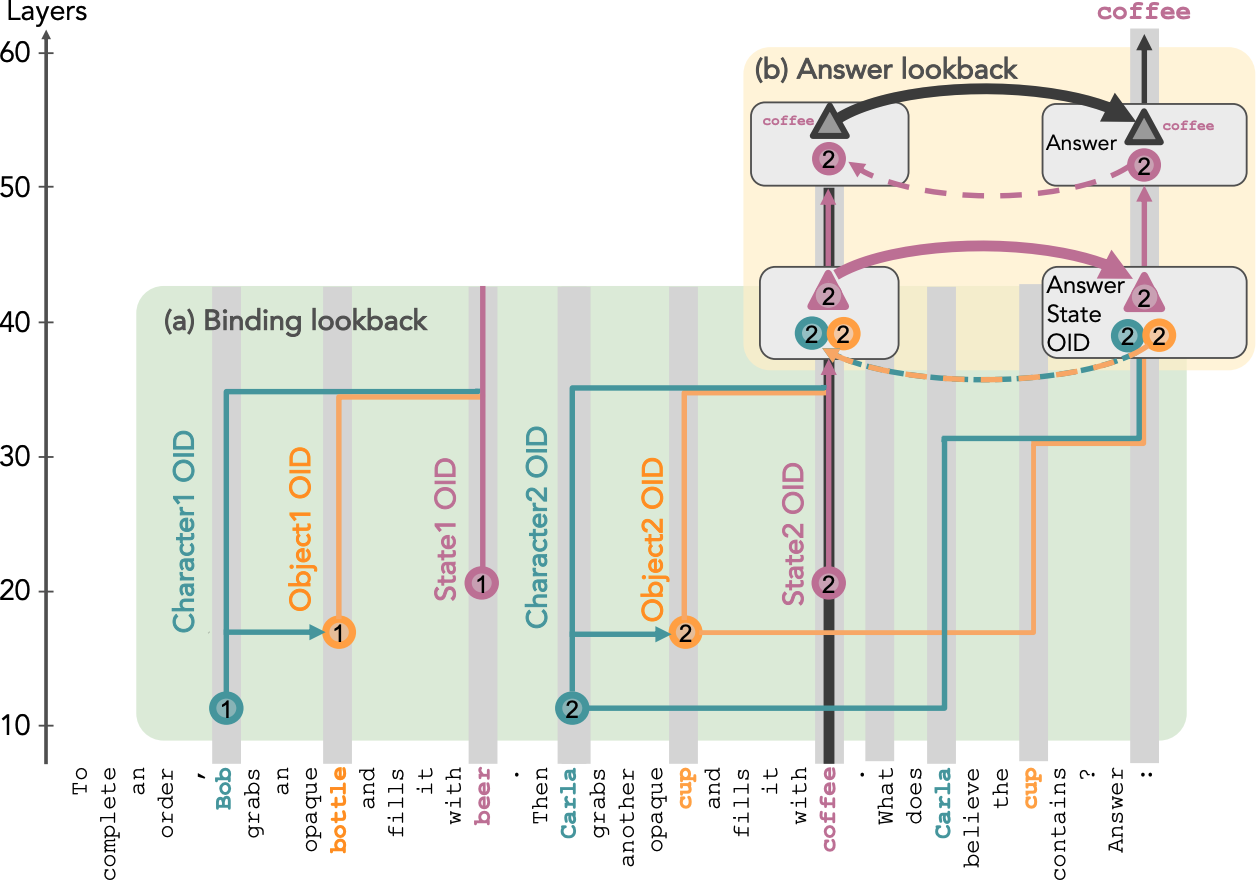
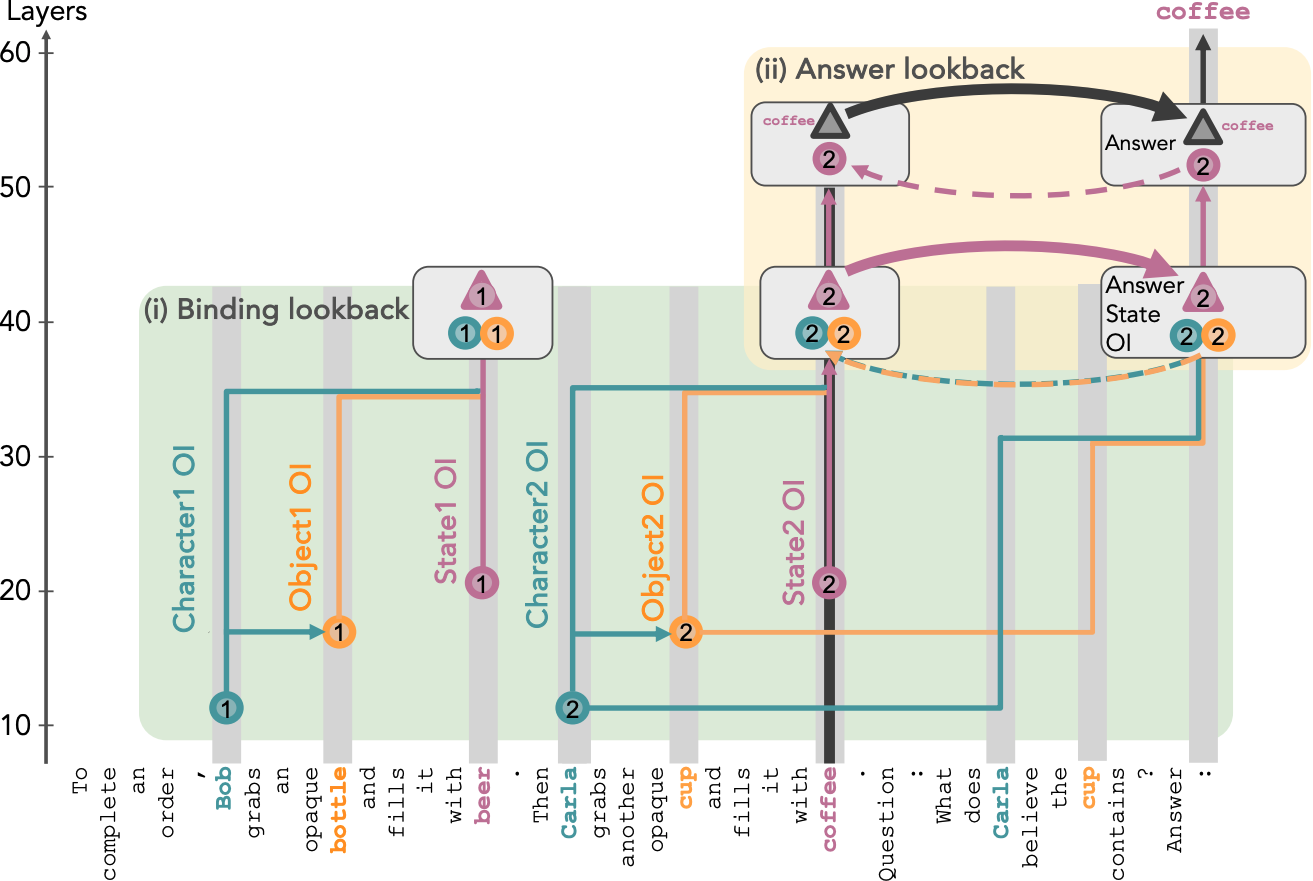
Updated artifacts

Changed region(s): [[0.0, 0.0, 1.0, 1.0], [0.9928, 0.3068, 1.0, 0.3989], [0.8067, 0.092, 0.8377, 0.1227]]

diff --git a/src/index.html b/src/index.html
@@ -100,10 +100,22 @@
     <div class="row justify-content-center text-center">
 
       <p>
-        <a href="pdf/Language_Models_use_Lookbacks_to_Track_Beliefs.pdf" class="d-inline-block p-3 align-top"
+        <a href="https://arxiv.org/abs/2505.14685" class="d-inline-block p-3 align-top"
           target="_blank"><img height="100" width="78" src="images/paper-thumb.png"
-            style="border:1px solid; margin: 0 38px;" alt="ArXiv Preprint thumbnail" data-nothumb=""><br>Under
-          Review</a>
+            style="border:1px solid; margin: 0 38px;" alt="ArXiv Preprint thumbnail" data-nothumb=""><br>ArXiv<br>
+          Preprint
+        </a>
+
+        <a href="https://github.com/Nix07/mind" class="d-inline-block p-3 align-top" target="_blank"><img
+          height="100" width="78" src="images/code-thumb.png" style="border:1px solid; margin: 0 38px;"
+            alt="Github code thumbnail" data-nothumb=""><br>Source
+          Code<br>Github
+        </a>
+
+        <a href="https://notebooklm.google.com/notebook/cb9f795a-c73b-4e91-b4e8-7f318065979b/audio"
+          class="d-inline-block p-3 align-top" target="_blank"><img height="78" width="104"
+            src="images/NotebookLM.png" style="border:1px solid" alt="Huggingface demo thumbnail"
+            data-nothumb=""><br>Podcast<br>(NotebookLM)</a>
       </p>
 
       <div class="card" style="max-width: 1020px;">
@@ -122,9 +134,9 @@
           <p style="text-align: justify;">
             Our investigation uncovered a consistent algorithmic pattern, which we refer to as the <b>Lookback
               Mechanism</b>. The language model (LM) first generates reference information&mdash;specifically, Ordering
-            IDs (OIDs)&mdash;for each character-object-state triple. It then performs reasoning over this reference
+            IDs (OIs)&mdash;for each character-object-state triple. It then performs reasoning over this reference
             information using three distinct lookbacks. The first, the <b>Binding Lookback</b>, identifies the correct
-            state OID. The second, the <b>Answer Lookback</b>, uses the OID obtained from the binding lookback to
+            state OI. The second, the <b>Answer Lookback</b>, uses the OI obtained from the binding lookback to
             retrieve the corresponding answer state token value. Finally, when an explicit visibility condition between
             characters is present, the LM employs an additional lookback&mdash;called the <b>Visibility
               Lookback</b>&mdash;to integrate information about the observed character, thereby enhancing the observing
@@ -192,8 +204,8 @@
         </p>
         <ol type="a">
           <li><strong>Binding Lookback:</strong> This lookback identifies the correct state token reference information,
-            i.e. their Ordering ID (OID).</li>
-          <li><strong>Answer Lookback:</strong> Uses the answer state OID from the binding lookback to retrieve the
+            i.e. their Ordering ID (OI).</li>
+          <li><strong>Answer Lookback:</strong> Uses the answer state OI from the binding lookback to retrieve the
             answer state token value.</li>
           <li><strong>Visibility Lookback:</strong> When an explicit visibility condition between characters is
             mentioned, this lookback employs additional reference information, called the Visibility ID, to retrieve
@@ -210,38 +222,38 @@
           <img src="images/paper/causalmodel_novis.png" alt="Belief Tracking Diagram" style="max-width:100%">
           <div class="figure-caption">
             <strong>Figure 2:</strong> Belief Tracking with no visibility between characters. The LM assigns ordering
-            IDs (OIDs) to each character, object, and state that encode their order of appearance. (a) Binding lookback:
-            Address copies of character and object OIDs are placed alongside the state OID payload in the residual
+            IDs (OIs) to each character, object, and state that encode their order of appearance. (a) Binding lookback:
+            Address copies of character and object OIs are placed alongside the state OI payload in the residual
             stream of state tokens while pointer copies are moved to the final token residual stream. (b) Answer
-            lookback: An address copy of the state OID is alongside the state token payload in the residual stream of
+            lookback: An address copy of the state OI is alongside the state token payload in the residual stream of
             state tokens while a pointer copy is moved to the final token residual stream via binding lookback.
           </div>
         </div>
 
         <h3>Ordering ID Assignment</h3>
         <p>
-          LM processes input tokens by assigning an Ordering ID (OID) to each crucial token, including character,
-          object, and state tokens. These OIDs, encoded in a low-rank subspace of the internal activation, <b>serve as a
+          LM processes input tokens by assigning an Ordering ID (OI) to each crucial token, including character,
+          object, and state tokens. These OIs, encoded in a low-rank subspace of the internal activation, <b>serve as a
             reference that indicates whether an entity is the first or second of its type, regardless of its token
             value.</b>
         </p>
 
         <h3>Binding Lookback</h3>
         <p>
-          The Binding lookback is the first operation applied to these OIDs. The character and object OIDs, serving as
+          The Binding lookback is the first operation applied to these OIs. The character and object OIs, serving as
           the source information, are duplicated into two instances each. One copy, referred to as the address, is
-          placed in the residual stream of the state token (recalled token), alongside the state OID as the payload to
+          placed in the residual stream of the state token (recalled token), alongside the state OI as the payload to
           transfer. The other copy, known as the pointer, is moved in the residual stream of the final token (lookback
           token). <b>These pointer and address copies are then used to form the QK-circuit at the lookback token, which
-            dereferences the state OID payload, transferring it from the state token to the final token</b>.
+            dereferences the state OI payload, transferring it from the state token to the final token</b>.
         </p>
 
         <h3>Answer Lookback</h3>
         <p>
-          The LM answers the question using the Answer Lookback. The state OID of the correct answer serves as the
-          source information, which is copied into two instances. One instance, the address copy of the state OID, is in
+          The LM answers the question using the Answer Lookback. The state OI of the correct answer serves as the
+          source information, which is copied into two instances. One instance, the address copy of the state OI, is in
           the residual stream of the state token (the recalled token) with the state token itself as the payload. The
-          other instance, the pointer copy of the state OID, is transferred to the residual stream of the final token as
+          other instance, the pointer copy of the state OI, is transferred to the residual stream of the final token as
           the binding lookback payload. <b>This pointer is then dereferenced, bringing the state token payload into the
             residual stream of the final token</b>.
         </p>
@@ -295,7 +307,7 @@
 
         <p class="citation">
           <a href="https://aclanthology.org/2024.emnlp-main.967/" target="_blank">
-            <img src="images/related_works/OID.png" alt="OID (Dai et. al 2024)">
+            <img src="images/related_works/OI.png" alt="OI (Dai et. al 2024)">
             Qin Dai, Benjamin Heinzerling, Kentaro Inui. Representational Analysis of Binding in Language Models. EMNLP
             2024.
           </a>
